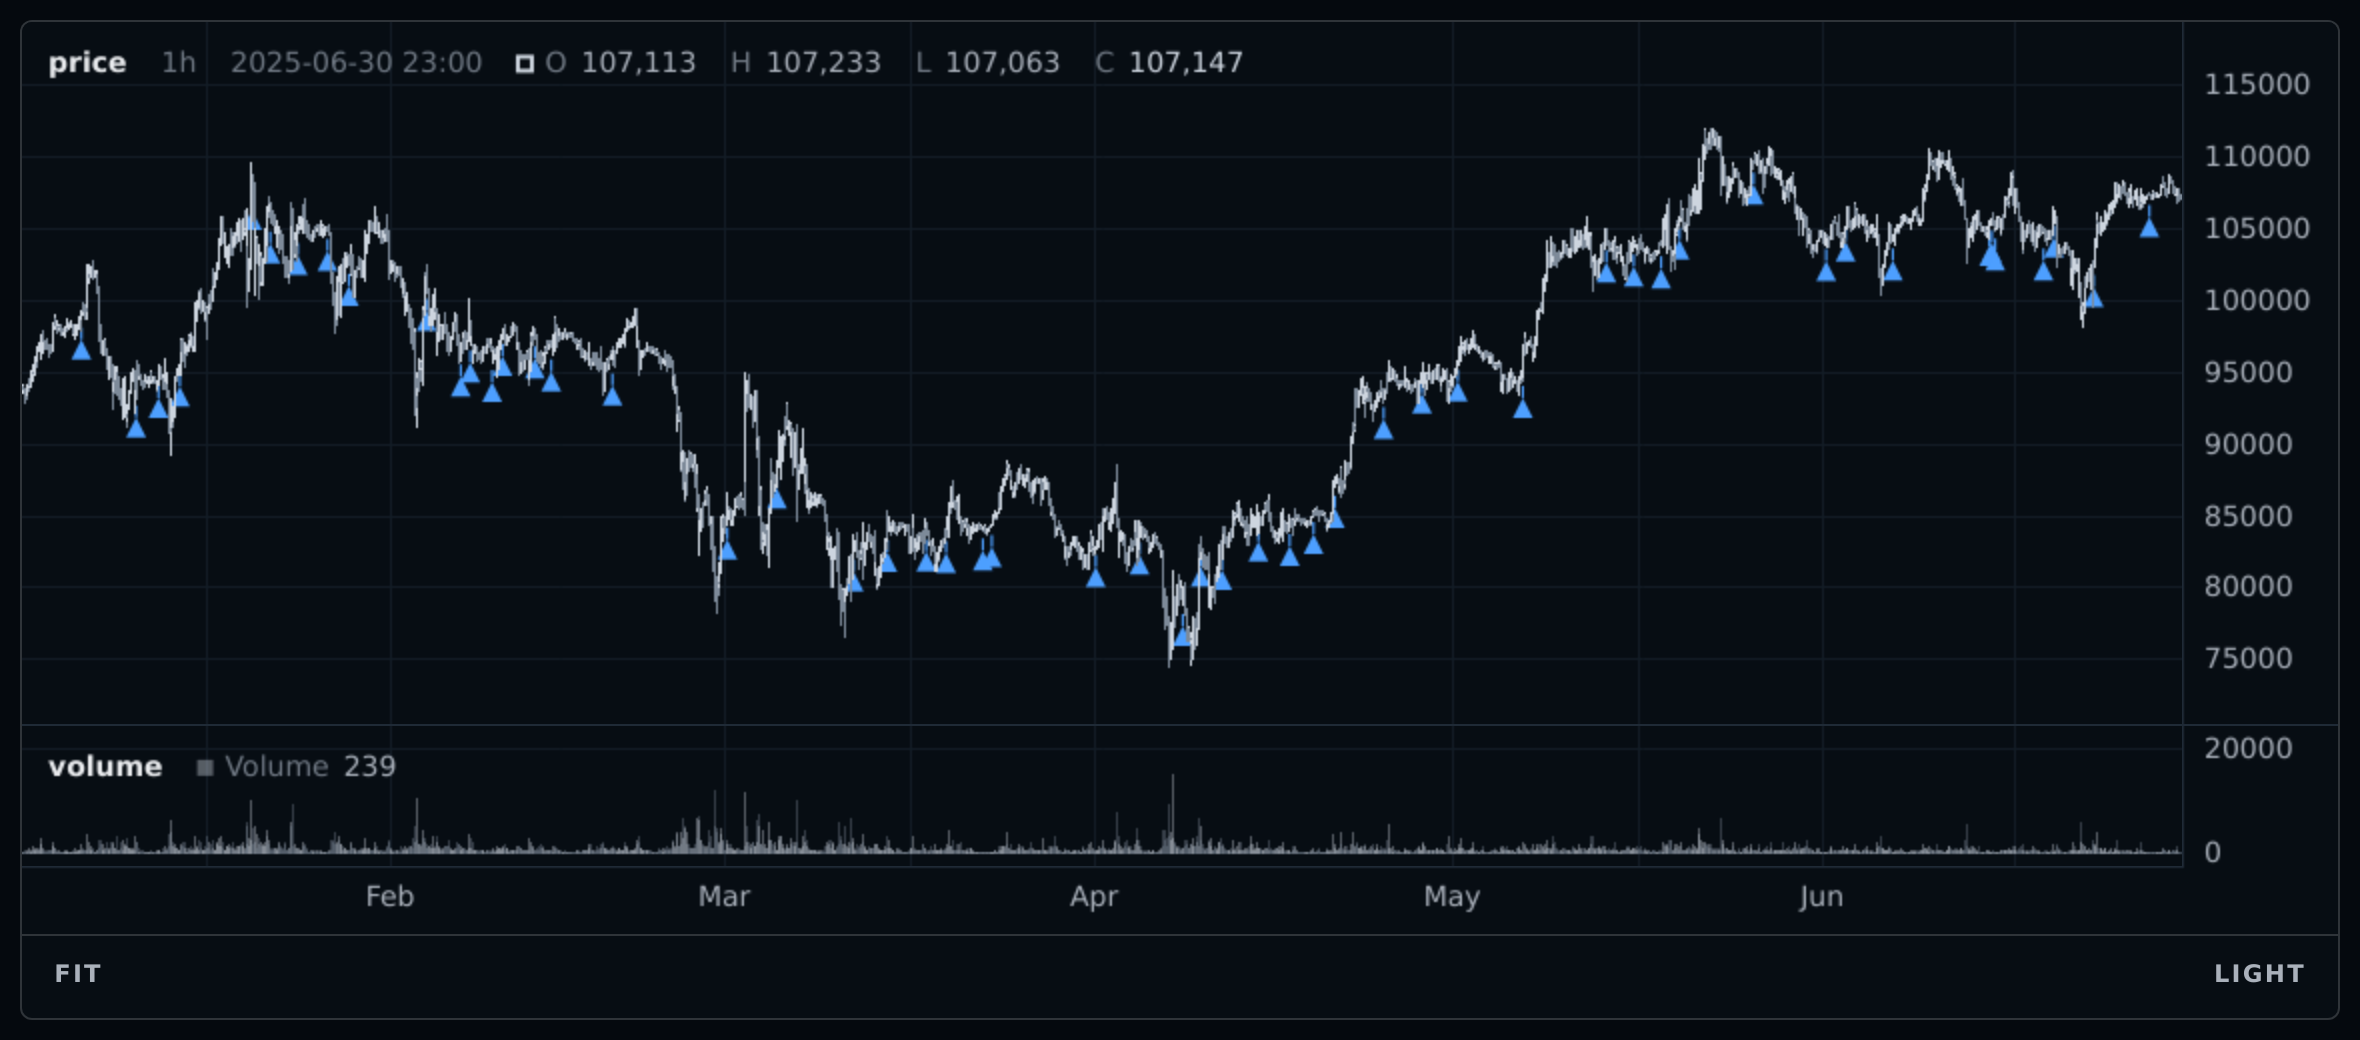
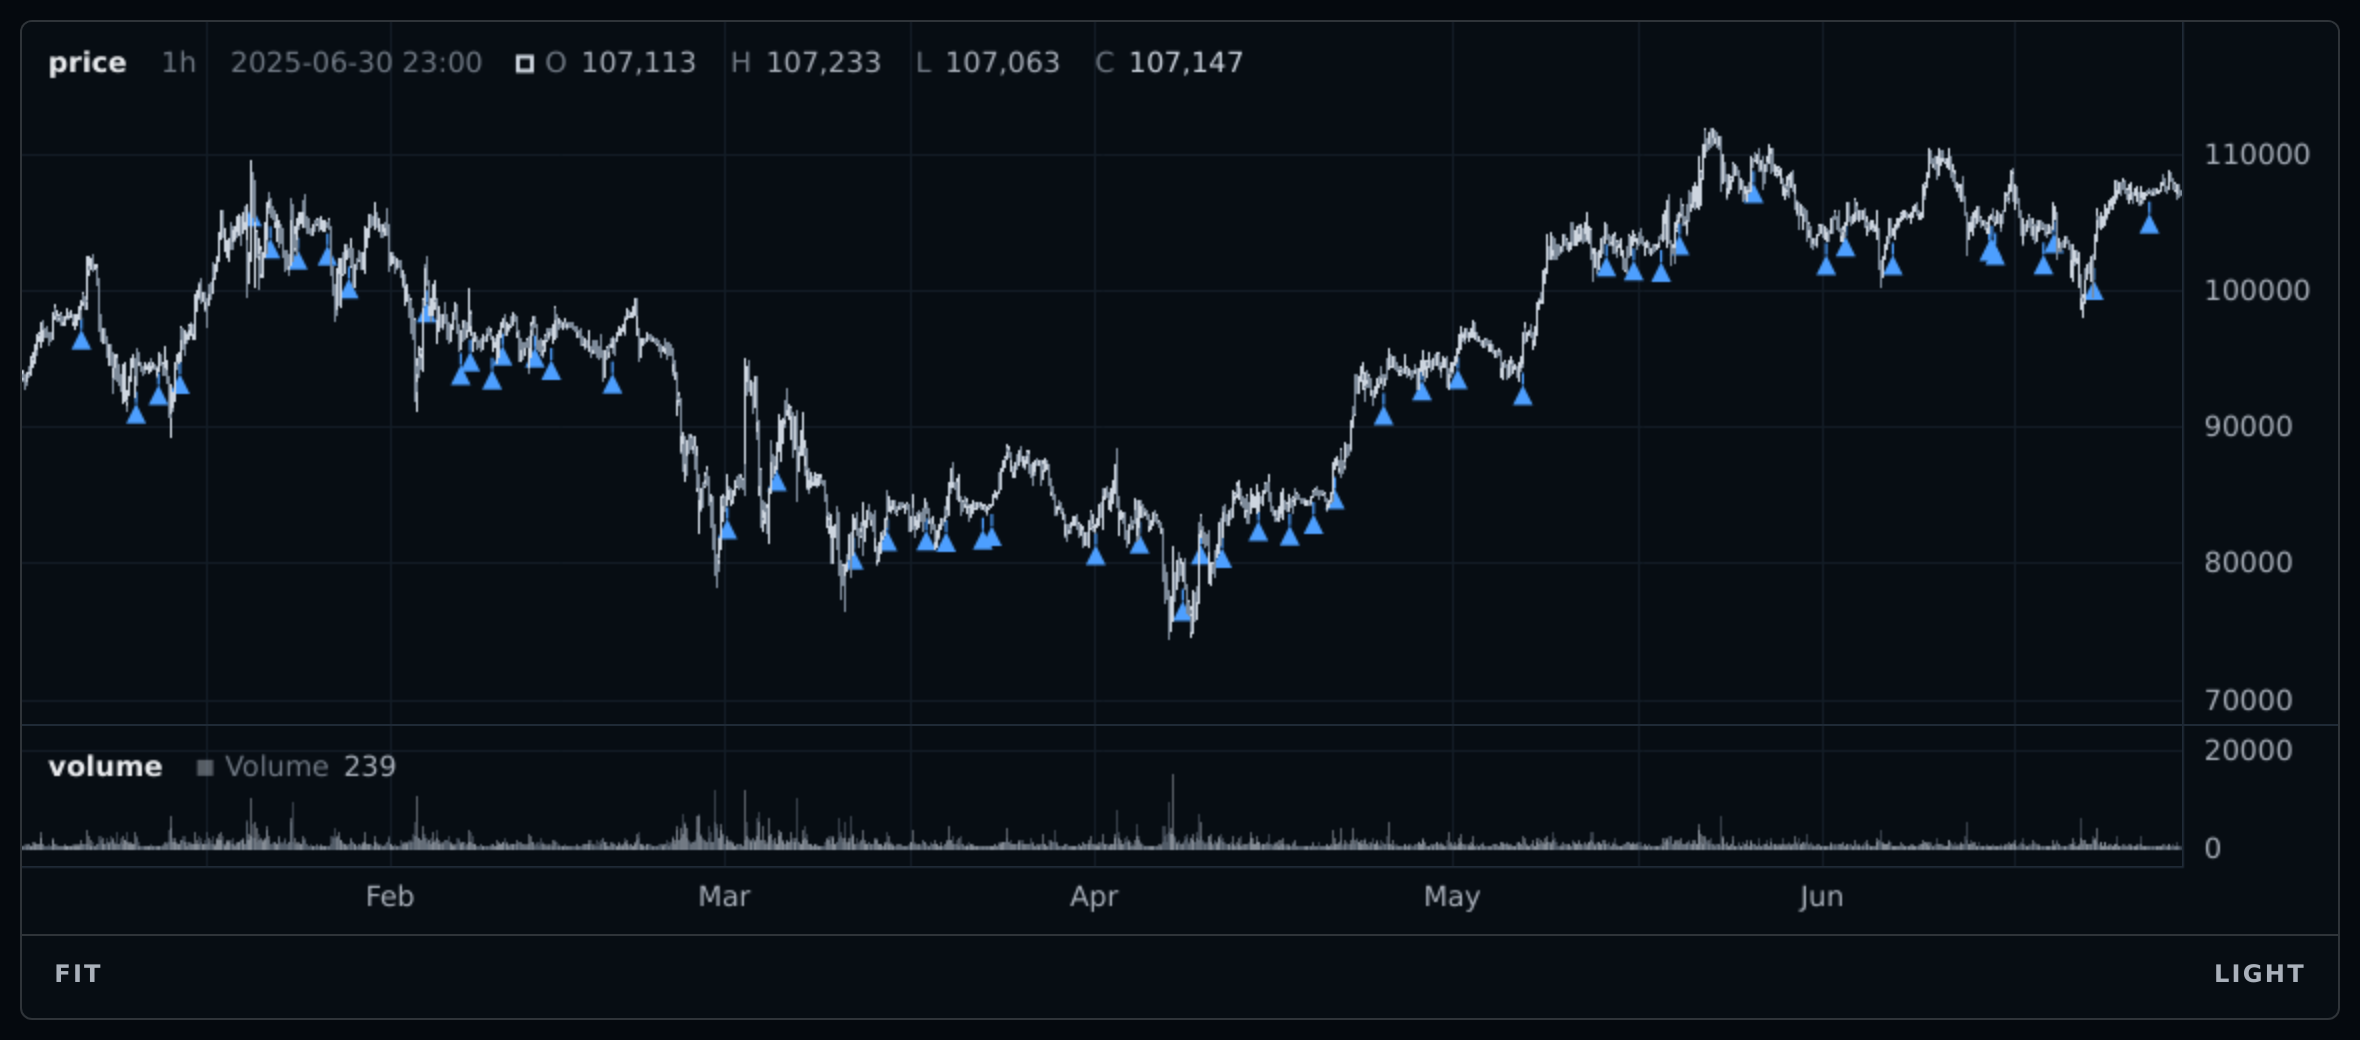
js,docs,dev: give the two new features a picture, and stop cutting the low label
- controls.js: the same argument as the top margin, at the other end, which went
  unmade the first time: the equity panel of the held-bars image ended on a 6000
  cut through the middle. A pane is bounded below by the next pane or by the time
  axis, so a low label has nowhere to overhang into
- charts/build.py: ex-background names its shading, so the image teaching the
  mark also shows the legend key it can now carry
- charts/build.py: ex-notes is new. trades=False, because the picture is about
  the table rather than a trade log the reader has already seen twice, and it is
  the case the feature was built for: a button that exists for the notes
- charts/shoot.py: two manifest keys for the one shot that needs them, since the
  table opens under the plot and is no part of the chart's own height. The
  pointer moves off before the shot, or the row that slides up under it comes out
  wearing its hover colour, and nothing here retouches
- Plotting.md: both images, and the background caption says what the name buys
- imgs/charts: fifteen now, all redrawn

diff --git a/python/emsl/_static/controls.js b/python/emsl/_static/controls.js
@@ -46,10 +46,16 @@ const placePaneCtls = function () {
       // across the whole pane rather than across the data, so the topmost one
       // lands wherever the scale puts it and is clipped by the pane edge if the
       // margin is only as deep as the text below it: at 0.08 the price axis
-      // opened on a half-drawn 140000
+      // opened on a half-drawn 140000.
+      //
+      // The same argument at the other end, which went unmade the first time and
+      // left the equity panel of the held-bars documentation image ending on a
+      // 6000 cut through the middle. A pane is bounded below by the next pane or
+      // by the time axis, so there is nowhere for a low label to overhang into,
+      // and half a number is worse than a slightly shorter plot
       scaleMargins: {
         top: Math.min(0.34, Math.max(0.15, legendRoom / hs[i])),
-        bottom: 0.08,
+        bottom: 0.12,
       },
     });
   });

diff --git a/dev/charts/build.py b/dev/charts/build.py
@@ -79,7 +79,7 @@ def midpoint(frame, n):
     return (frame.high.rolling(n).max() + frame.low.rolling(n).min()) / 2
 
 
-def keep(name, chart, width, caption):
+def keep(name, chart, width, caption, below=0, open_table=False):
     # the height is recorded here and read by the shooter rather than written out
     # in both, because it drifted the first time either was edited. A chart sizes
     # itself to its window, so a shot taken at a height the chart was not built
@@ -91,6 +91,14 @@ def keep(name, chart, width, caption):
         "width": width,
         "caption": caption,
     }
+    # the table panel opens under the plot and is not part of the chart's own
+    # height, so a shot that has to include it asks for the room rather than
+    # overstating how tall the chart was built. Absent unless asked for, so the
+    # manifest stays a description of the ordinary shots
+    if below:
+        SHOTS[name]["below"] = below
+    if open_table:
+        SHOTS[name]["open"] = True
 
 
 # ------------------------------------------------------------------ the data
@@ -400,9 +408,9 @@ def documented_examples(raw):
 
     keep("ex-background", emsl.chart(
         frame=frame,
-        marks=Background(values=risk_off, fill="#ff547026"),
+        marks=Background(values=risk_off, name="risk off", fill="#ff547026"),
         height=520,
-    ), NARROW, "a shaded regime behind the candles")
+    ), NARROW, "a shaded regime behind the candles, named in the legend")
 
     keep("ex-markers", emsl.chart(
         frame=frame,
@@ -478,6 +486,30 @@ def documented_examples(raw):
         title=f"worst trade, net {worst['net_pnl']:,.0f}",
         height=660,
     ), NARROW, "the worst trade framed")
+
+    # trades=False so the picture is about the table rather than about a trade
+    # log the reader has already seen twice above. It also exercises the case the
+    # feature was built for, which is a chart whose button exists because of the
+    # notes and not because of a run. Volume is off for room: three panels inside
+    # the height left over once the table has its share are three squeezed panels
+    keep("ex-notes", emsl.chart(
+        frame=frame,
+        marks=strategy.marks(),
+        run=result,
+        trades=False,
+        panels=[Panel(name="volume", show=False)],
+        title="what produced this picture, carried by the file itself",
+        notes=[
+            ["setting", "value"],
+            ["fast", strategy.fast_n],
+            ["slow", strategy.slow_n],
+            ["market", "spot, 5 bp taker"],
+            ["bars", f"{len(frame):,} at 1h"],
+            ["window", f"{frame.index[0]:%Y-%m-%d} to {frame.index[-1]:%Y-%m-%d}"],
+        ],
+        height=440,
+    ), NARROW, "the settings behind the chart, in the document rather than the cell",
+        below=300, open_table=True)
 
 
 def main():

diff --git a/dev/charts/shoot.py b/dev/charts/shoot.py
@@ -49,13 +49,24 @@ def main():
         browser = play.chromium.launch()
         for name in sorted(shots):
             shot = shots[name]
-            width, height = shot["width"], shot["height"]
+            width = shot["width"]
+            # the table panel opens under the plot and is no part of the chart's
+            # own height, so a shot that has to show it says how much room to
+            # leave rather than the manifest overstating how tall the chart is
+            height = shot["height"] + shot.get("below", 0)
             page = browser.new_page(
                 viewport={"width": width, "height": height},
                 device_scale_factor=SCALE,
             )
             page.goto((CHARTS / f"{name}.html").as_uri())
             page.wait_for_timeout(SETTLE_MS)
+            if shot.get("open"):
+                page.click("#tbl")
+                # opening the panel shrinks the plot above it, so the row that
+                # slides up under the cursor comes out of the shot wearing its
+                # hover colour. Nothing here retouches, so the pointer moves
+                page.mouse.move(0, 0)
+                page.wait_for_timeout(500)
             page.screenshot(path=str(IMAGES / f"{name}.png"))
             page.close()
             size = (IMAGES / f"{name}.png").stat().st_size

diff --git a/.Documentation/Plotting.md b/.Documentation/Plotting.md
@@ -155,7 +155,7 @@ emsl.chart(frame=frame, marks=Background(values=risk_off, fill="#ff547026")).sho
 
 <div align="center">
   <img src="imgs/charts/ex-background.png" alt="bars shaded where a volatility filter says risk-off" width="100%" />
-  <p style="margin: 0;"><i>A boolean array painted behind the bars, which keep their own colours on top of it</i></p>
+  <p style="margin: 0;"><i>A boolean array painted behind the bars, which keep their own colours on top of it, and a name so the legend says which region the crosshair is over</i></p>
 </div>
 
 <br>
@@ -742,6 +742,11 @@ emsl.chart(
 ```
 
 A DataFrame goes in the same place, which is usually what you already have: `notes=walk.summary`.
+
+<div align="center">
+  <img src="imgs/charts/ex-notes.png" alt="the settings behind the chart, carried in the document" width="100%" />
+  <p style="margin: 0;"><i>What produced the picture, under the picture, in the file rather than in the cell that made it</i></p>
+</div>
 
 This is what stops a saved file carrying a claim and not the evidence for it. A walk-forward chart asserts that each stretch traded on parameters fitted only on the bars before it, and the windows that say so were printed by the cell rather than by the chart, so `save` dropped them and the first person to forward the file is looking at an assertion ([ADR 0113](Decisions.md)).
 
